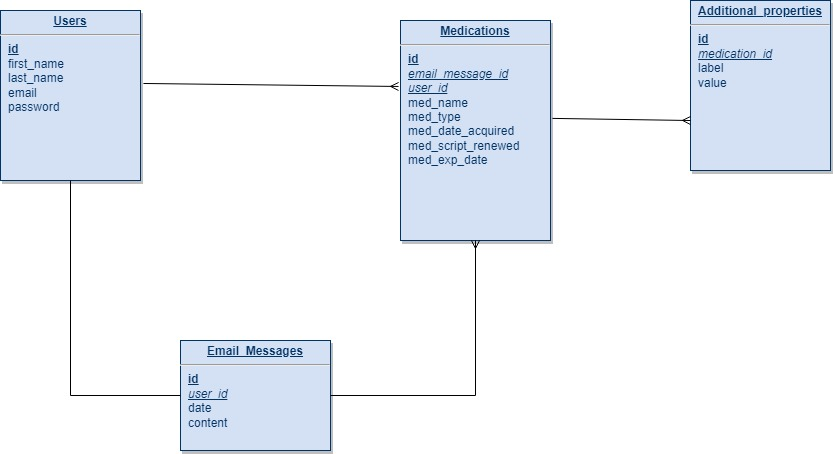
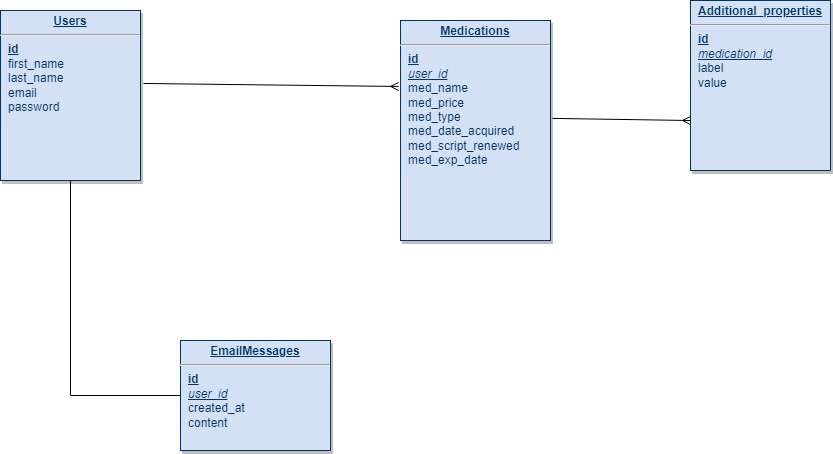
Created EmailMessage model - Added Foreign key emailMessage_id to Medication model - Created relationship for User and EmailMessage in /models/index.js -Updated ERD - Updated User table fields - Updated seeds for user and medication - Created checkExpiry.js in /utils to check medication expiry date 

Changed region(s): [[0.4682, 0.1542, 0.6242, 0.2467], [0.2497, 0.7401, 0.3745, 0.8018], [0.2185, 0.8943, 0.3121, 0.9251]]

diff --git a/seeds/medication-seeds.js b/seeds/medication-seeds.js
@@ -5,44 +5,44 @@ const medicationData = [
     med_name: 'Panadol',
     med_price: 14.99,
     med_type: 'Pain Killer', 
-    med_date_acquired: Date('22 May 2022'),
-    med_script_renewed: Date('15 April 2022'), 
-    med_exp_date: Date('06 October 2025'),
+    med_date_acquired: new Date('22 May 2022'),
+    med_script_renewed: new Date('15 April 2022'), 
+    med_exp_date: new Date('06 October 2021'),
     user_id: 1,
   },
   {
     med_name: 'Nurofen',
     med_price: 90.0,
     med_type: 'Pain Killer', 
-    med_date_acquired: Date('21 June 2022'),
-    med_script_renewed: Date('15 July 2021'), 
-    med_exp_date: Date('26 November 2025'),
+    med_date_acquired: new Date('21 June 2022'),
+    med_script_renewed: new Date('15 July 2021'), 
+    med_exp_date: new Date('26 November 2025'),
     user_id: 5,
   },
   {
     med_name: 'Zantac',
     med_price: 22.99,
     med_type: 'Stomach Relief', 
-    med_date_acquired: Date('22 May 2022'),
-    med_script_renewed: Date('15 April 2022'), 
-    med_exp_date: Date('06 October 2025'),
+    med_date_acquired: new Date('22 May 2022'),
+    med_script_renewed: new Date('15 April 2022'), 
+    med_exp_date: new Date('06 October 2025'),
     user_id: 4,
   },
   {
     med_name: 'Claratyne',
     med_price: 12.99,
     med_type: 'Alergic Relief', 
-    med_date_acquired: Date('22 December 2021'),
-    med_script_renewed: Date('15 April 2021'), 
-    med_exp_date: Date('25 September 2023'),
+    med_date_acquired: new Date('22 December 2021'),
+    med_script_renewed: new Date('15 April 2021'), 
+    med_exp_date: new Date('25 September 2023'),
     user_id: 3,
   },
   {
     med_name: 'Vitamin C',
     med_price: 29.99,
     med_type: 'Daily Vitamin', 
-    med_date_acquired: Date('22 May 2022'),
-    med_exp_date: Date('08 March 2025'),
+    med_date_acquired: new Date('22 May 2022'),
+    med_exp_date: new Date('08 March 2025'),
     user_id: 2,
   },
 ];

diff --git a/utils/checkExpiry.js b/utils/checkExpiry.js
@@ -1,0 +1,51 @@
+const { Medication, User } = require('../models');
+const sequelize = require('sequelize');
+const { format_time } = require('./helpers')
+
+// todo: HOW TO GET USER ID FROM SESSION? 
+
+
+// Set interval to check everyday
+setInterval(() => {
+  getExpiredMed();
+}, 3600000);
+
+const getExpiredMed = async () => {
+  const today = new Date()
+  // Check at Midnight
+  if (today.getHours() == '21') {
+    const expiredMedsData = await Medication.findAll({
+      where: {
+        med_exp_date: { [sequelize.Op.lt]: today },
+        // TODO: add condition where user_id: { user id from session }
+      },
+      include: [{ model: User }]
+    })
+    const expiredMeds = expiredMedsData.map((expiredMed) => expiredMed.get({ plain: true }));
+    let medDetails = {}
+    if (expiredMeds.length > 0) {
+      let medNamesArr = []
+      expiredMeds.forEach(med => {
+        medNamesArr.push(med.med_name)
+        const medNames = medNamesArr.join(', ');
+        medDetails = {
+          firstName: med.user.user_first_name,
+          lastName: med.user.user_last_name,
+          medNames: medNames,
+          expDate: format_time(med.med_exp_date) 
+        }
+
+      });
+
+    }
+    console.log(medDetails)
+
+
+    const content = `Dear ${medDetails.firstName} ${medDetails.lastName}, Your medication(s) ${medDetails.medNames} has/have expired. Expiry Date: ${medDetails.expDate}Please discard them`
+    // todo: Send Email Notification - content
+    console.log(content);
+  }
+}
+
+// Will run a check when server is loaded
+getExpiredMed();

diff --git a/models/Medication.js b/models/Medication.js
@@ -2,6 +2,7 @@
 const { Model, DataTypes } = require('sequelize');
 // import our database connection from config.js
 const sequelize = require('../config/connection');
+const EmailMessage = require('./EmailMessage');
 const User = require('./User');
 
 // Initialize Medication model (table) by extending off Sequelize's Model class
@@ -16,17 +17,17 @@ Medication.init(
       primaryKey: true,
       autoIncrement: true
     },
+    med_name: {
+      type: DataTypes.STRING,
+      allowNull: false
+    },
     med_price: {
       type: DataTypes.DECIMAL,
       allowNull: false, 
       validate: {
         isDecimal: true
-      }
-    }, 
-    med_name: {
-      type: DataTypes.STRING,
-      allowNull: false
-    }, 
+      },
+    },  
     med_type: {
       type: DataTypes.STRING,
       allowNull: false
@@ -48,8 +49,8 @@ Medication.init(
       references: {
         model: User, 
         key: 'id'
-      }
-    }
+      },
+    },
   },
   {
     sequelize,

diff --git a/seeds/user-seeds.js b/seeds/user-seeds.js
@@ -2,19 +2,34 @@ const { User } = require('../models');
 
 const userData = [
   {
-    username: 'MrBlack',
+    user_email: 'bernardjbs@yahoo.com',
+    user_first_name: 'Bernard', 
+    user_last_name: 'Sin Fat', 
+    password: 'tobehashed'
   },
   {
-    username: 'MrPink',
+    user_email: 'pink@colors.com',
+    user_first_name: 'Pinky', 
+    user_last_name: 'Rabbit', 
+    password: 'tobehashed'
   },
   {
-    username: 'MrWhite',
+    user_email: 'black@colors.com',
+    user_first_name: 'Black', 
+    user_last_name: 'Hole', 
+    password: 'tobehashed'
   },
   {
-    username: 'MrWolf',
+    user_email: 'blue@colors.com',
+    user_first_name: 'Blue', 
+    user_last_name: 'Sky', 
+    password: 'tobehashed'
   },
   {
-    username: 'MrFox',
+    user_email: 'green@colors.com',
+    user_first_name: 'Green', 
+    user_last_name: 'Forest', 
+    password: 'tobehashed'
   },
 ];
 

diff --git a/models/index.js b/models/index.js
@@ -2,27 +2,37 @@
 const Medication = require('./Medication');
 const User = require('./User');
 const Addition = require('./Addition');
+const EmailMessage = require('./EmailMessage');
 
-// Medications belongsTo User
+// Relationship between Medication and User
 Medication.belongsTo(User, {
   foreignKey: 'user_id'
 });
-
-// Categories have many Medications
 User.hasMany(Medication, {
   foreignKey: 'user_id'
 });
 
+// Relationship between Addition and Medication
 Addition.belongsTo(Medication, {
   foreignKey: 'medication_id'
-})
-
+});
 Medication.hasMany(Addition, {
   foreignKey: 'medication_id'
-})
+});
+
+// Relationship between User and EmailMessage
+EmailMessage.belongsTo(User, {
+  foreignKey: 'user_id'
+});
+User.hasOne(EmailMessage, {
+  foreignKey: 'user_id'
+});
+
+
 
 module.exports = {
   Medication,
   User,
   Addition,
+  EmailMessage,
 };

diff --git a/models/EmailMessage.js b/models/EmailMessage.js
@@ -1,0 +1,41 @@
+const { datacatalog } = require('googleapis/build/src/apis/datacatalog');
+const { Model, DataTypes } = require('sequelize');
+
+const sequelize = require('../config/connection');
+
+const User = require('./User');
+
+class EmailMessage extends Model {}
+
+EmailMessage.init(
+  {
+    id: {
+      type: DataTypes.INTEGER,
+      allowNull: false,
+      primaryKey: true,
+      autoIncrement: true
+    }, 
+    content: {
+      type: DataTypes.TEXT, 
+      allowNull: false, 
+    }, 
+    user_id: {
+      type: DataTypes.INTEGER, 
+      allowNull: false, 
+      references: {
+        model: User, 
+        key: 'id'
+      },
+    },
+  },
+  {
+    sequelize,
+    timestamps: true,
+    freezeTableName: false,
+    createdAt: 'created_at',
+    underscored: true,
+    modelName: 'emailMessage',
+  }
+);
+
+module.exports = EmailMessage;

diff --git a/server.js b/server.js
@@ -3,6 +3,7 @@ const express = require('express'); // Setup server
 const session = require('express-session'); // Setup sessions
 const exphbs = require('express-handlebars'); // Use handlebars with express
 const SequelizeStore = require('connect-session-sequelize')(session.Store); // Use sequelize to handle sessions
+const { checkExpiry } = require('./utils/checkExpiry'); // Will check expiry date for medication and send an email notification
 
 const routes = require('./controllers'); // bring routes in from the controllers
 const sequelize = require('./config/connection'); // Setup connection to be used

diff --git a/models/User.js b/models/User.js
@@ -12,10 +12,25 @@ User.init(
       primaryKey: true,
       autoIncrement: true
     },
-    username: {
+    user_email: {
       type: DataTypes.STRING,
       allowNull: false
-    }
+    }, 
+    user_first_name: {
+      type: DataTypes.STRING,
+      allowNull: false
+    }, 
+    user_last_name: {
+      type: DataTypes.STRING,
+      allowNull: false
+    }, 
+    password: {
+      type: DataTypes.STRING,
+      allowNull: false,
+      validate: {
+        len: [8]
+      }
+    },
   },
   {
     sequelize,

diff --git a/controllers/api/medication-routes.js b/controllers/api/medication-routes.js
@@ -12,7 +12,7 @@ router.post('/', withAuth, async (req, res) => {
   try {
     const newMedication = await Medication.create({
       ...req.body,
-      user_id: req.secure.user_id
+      user_id: req.session.user_id
     });
     res.status(200).json(newMedication);
   } catch (err) {
